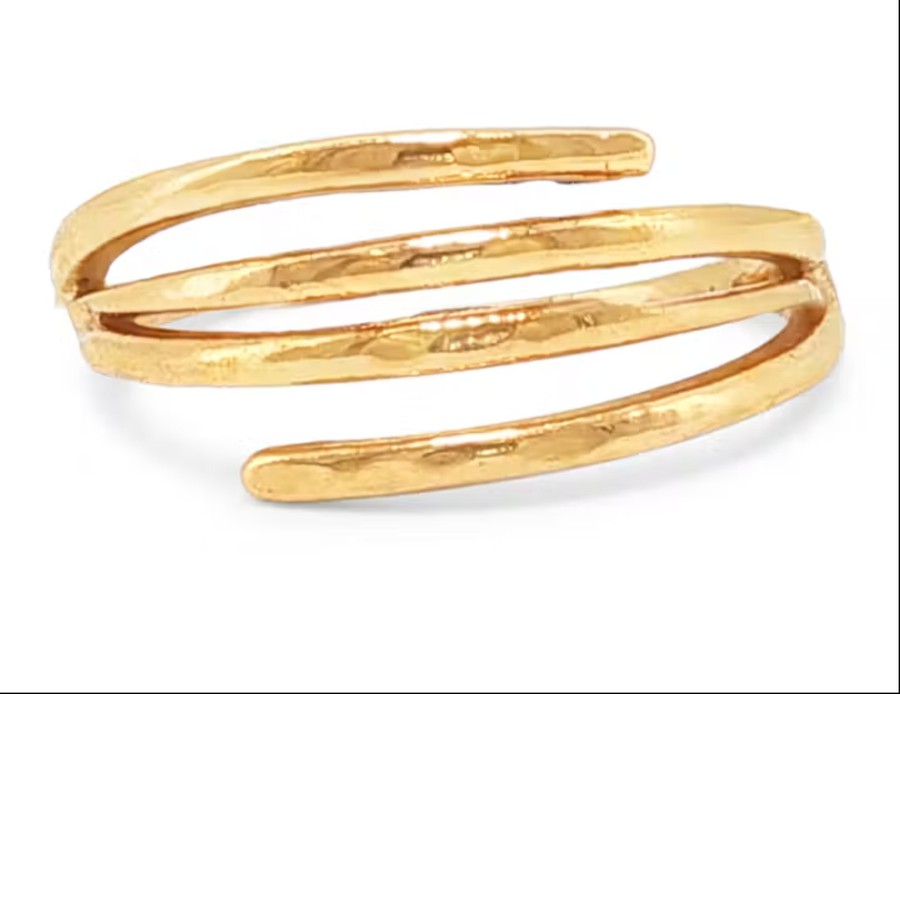
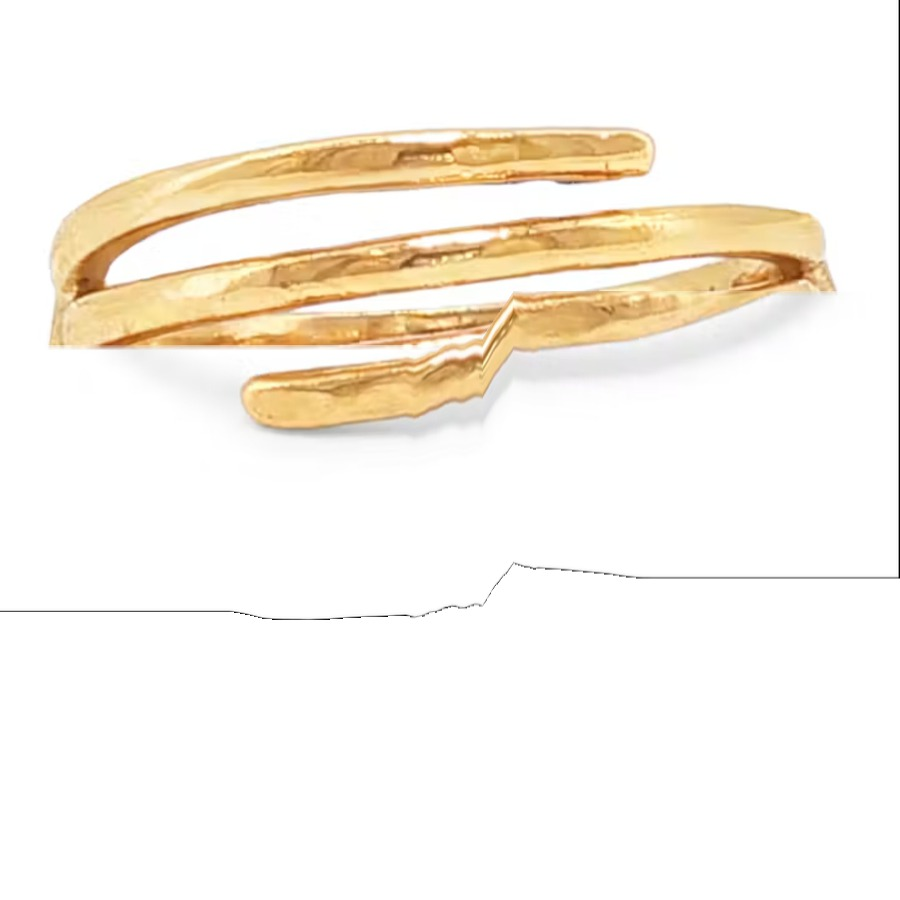
5-wrap base cut through the white gaps along the wire's curve (no seam); pear keeps its sparkle and drops its photo shadow

Changed region(s): [[0.0311, 0.3111, 0.9644, 0.5911], [0.7156, 0.6222, 1.0, 0.7778]]

diff --git a/index.html b/index.html
@@ -1095,7 +1095,7 @@ const PLAIN_STONES = {
   2:{wraps:[{x:378,y:161,r:40,m:0},{x:190,y:288,r:40,m:0}], bottom:{x:412,y:364,w:330,h:190,m:3,shape:'pear',turn:true}},
   3:{wraps:[{x:378,y:161,r:40,m:0},{x:190,y:290,r:40,m:0},{x:535,y:330,r:40,m:6}], bottom:{x:412,y:467,w:330,h:190,m:3,shape:'pear',turn:true}},
   4:{wraps:[{x:378,y:161,r:40,m:0},{x:190,y:290,r:40,m:0},{x:535,y:323,r:40,m:6},{x:283,y:431,r:40,m:7}], bottom:{x:412,y:540,w:330,h:190,m:3,shape:'pear',turn:true}},
-  5:{wraps:[{x:378,y:161,r:40,m:0},{x:190,y:290,r:40,m:0},{x:535,y:325,r:40,m:6},{x:283,y:415,r:40,m:7},{x:655,y:445,r:40,m:10}], bottom:{x:412,y:600,w:330,h:190,m:3,shape:'pear',turn:true}},
+  5:{wraps:[{x:378,y:161,r:40,m:0},{x:190,y:290,r:40,m:0},{x:535,y:322,r:40,m:6},{x:283,y:408,r:40,m:7},{x:700,y:440,r:40,m:10}], bottom:{x:412,y:569,w:330,h:190,m:3,shape:'pear',turn:true}},
 };   // n -> plain ring photo, once it exists
 const SRC = {src:'img/studio/gold-5.jpg', n:5, stone:{x:535, y:355, r:40, m:6}};   // her ruby, with its prongs
 // her other real stones on the same photo; a dark birthstone is cut from a dark stone, a light one from a light stone
@@ -1523,8 +1523,10 @@ function paintSprite(ctx, sp, cx, cy, scale, mi){
     for (let y = 0; y < ph; y++) for (let x = 0; x < pw; x++){
       const i = (y*pw + x)*4, j = y*pw + x;
       const v = Math.pow(Math.abs(x - pw/2) / ax, P) + Math.pow(Math.abs(y - ph/2) / ay, P);
-      if (v >= 1 || isBackdrop(d[i], d[i+1], d[i+2])) continue;
-      if (isGoldPx(d[i], d[i+1], d[i+2])) gold[j] = 1; else stone[j] = 1;
+      if (v >= 1) continue;
+      const g = isGoldPx(d[i], d[i+1], d[i+2]);
+      if (v < 0.62){ if (g) gold[j] = 1; else stone[j] = 1; continue; }   // the stone's own body, sparkle included
+      if (g) gold[j] = 1;                                                     // outside it only metal (prongs) can stay
     }
   }
   const near = dilate(stone, pw, ph, 12);           // metal this close to the stone is a prong
@@ -1540,8 +1542,7 @@ function paintSprite(ctx, sp, cx, cy, scale, mi){
     const i = (y*pw + x)*4, j = y*pw + x;
     const v = Math.pow(Math.abs(x - pw/2) / ax, P) + Math.pow(Math.abs(y - ph/2) / ay, P);
     let a = 1 - smooth(0.85, 1.0, v);
-    if (gold[j] && !near[j]) a = 0;
-    else if (!stone[j] && !gold[j]) a *= 1 - smooth(226, 246, Math.min(d[i], d[i+1], d[i+2]));
+    if (gold[j] ? !near[j] : !stone[j]) a = 0;      // no wire, no photo shadow, no backdrop travels with the stone
     d[i+3] *= a;
   }
   px.putImageData(id, 0, 0);
